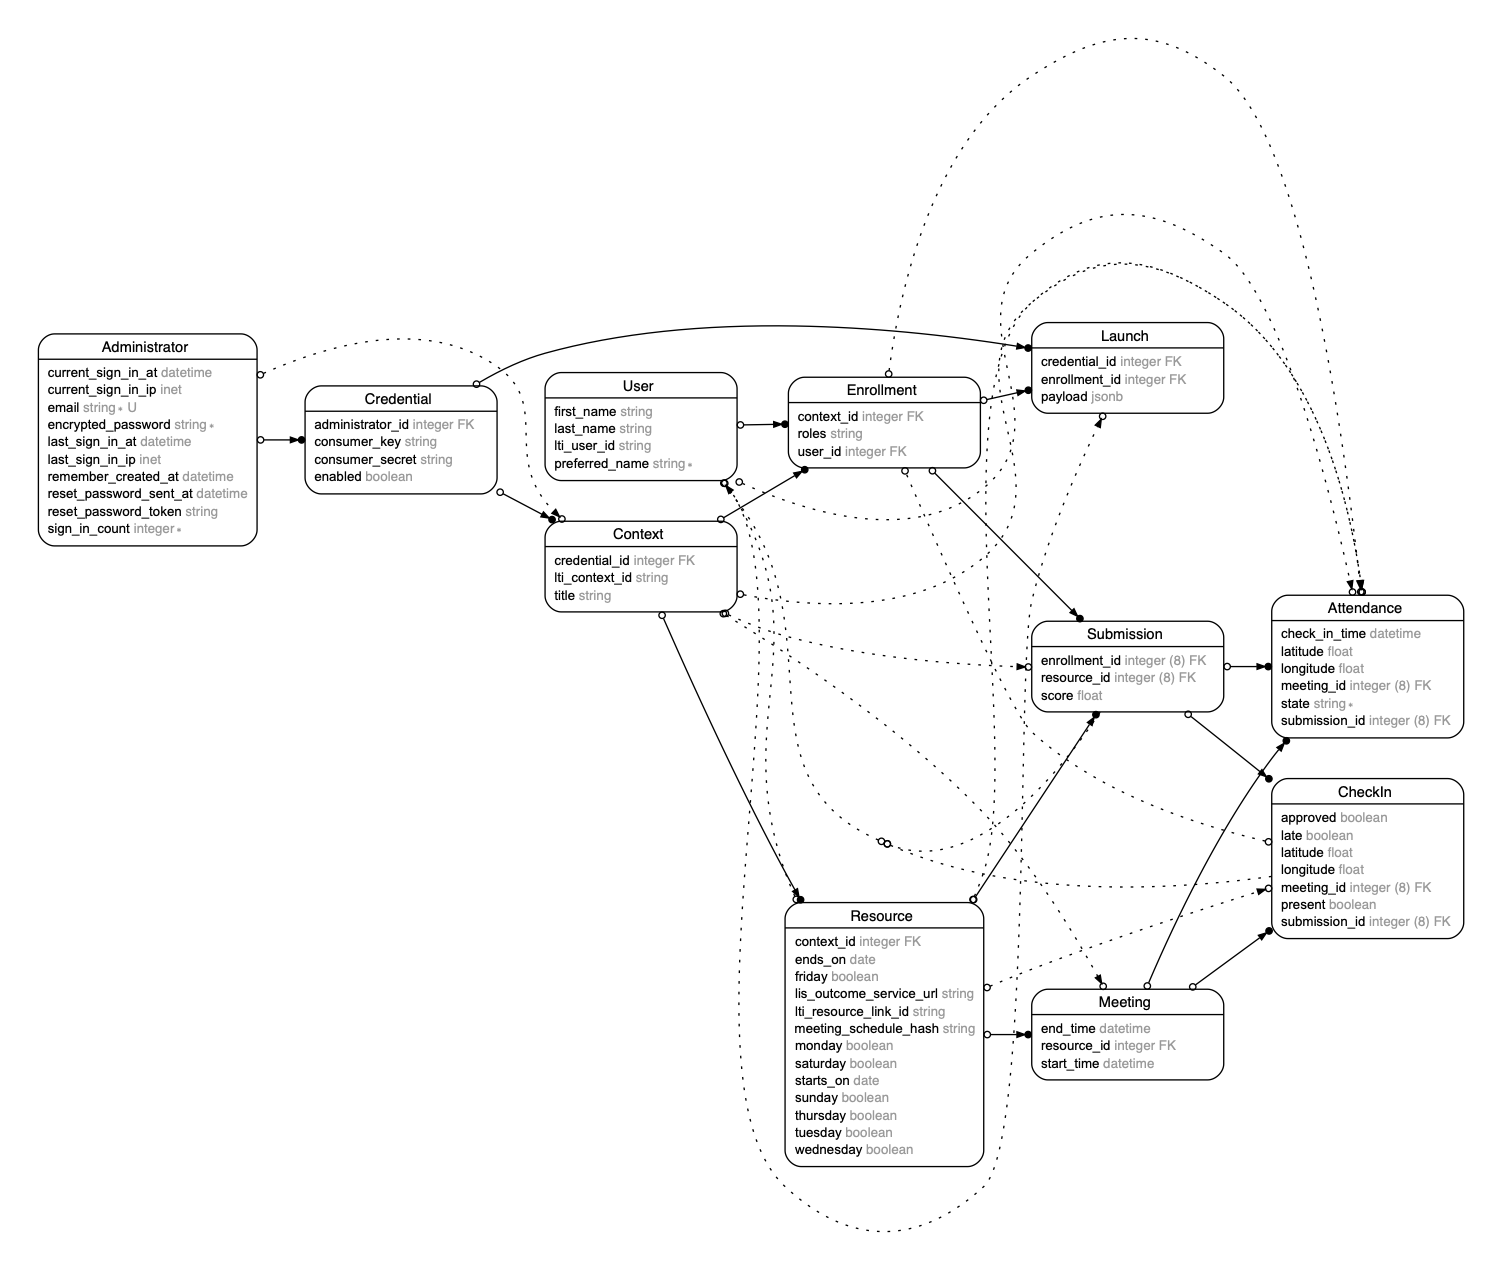
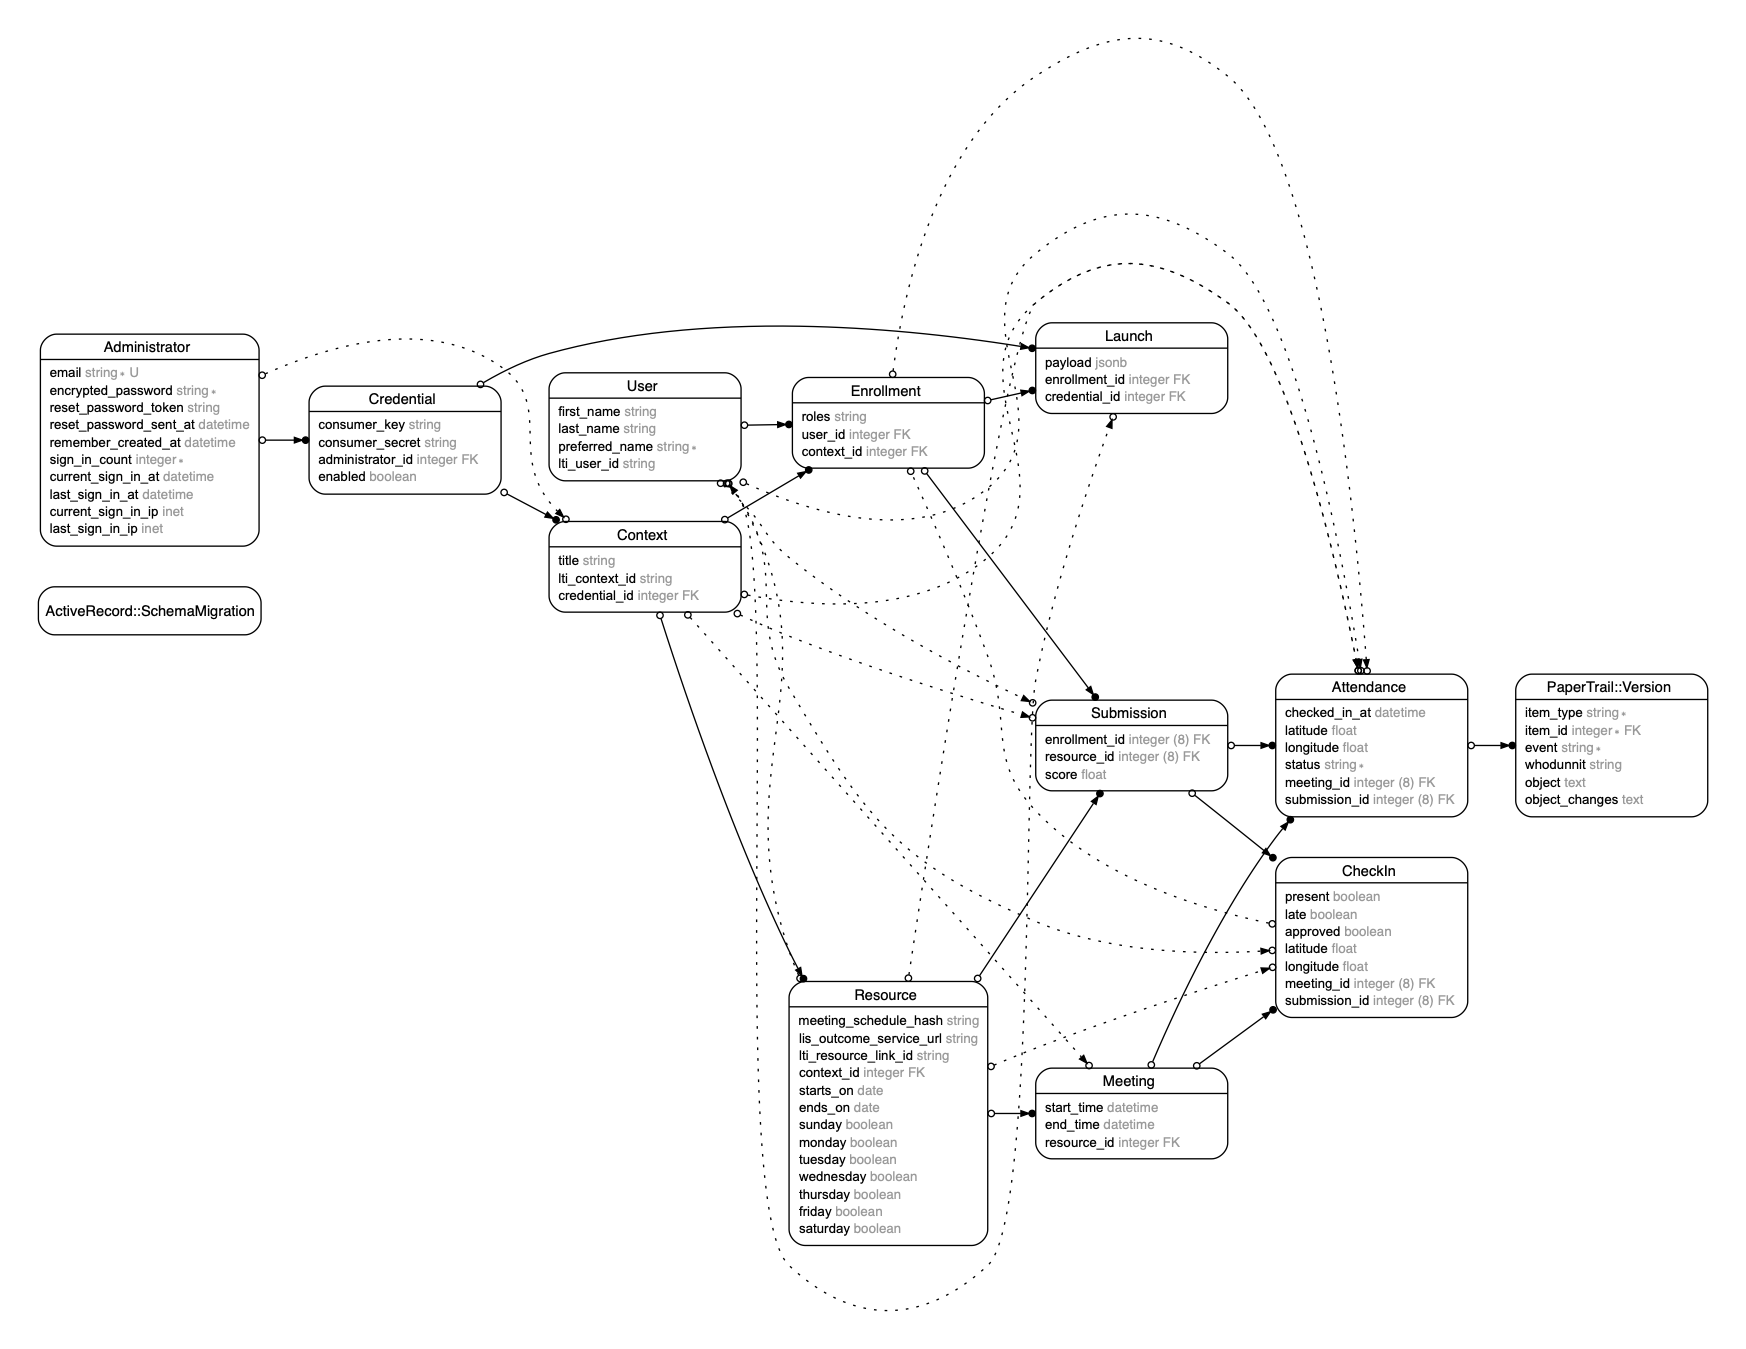
Get checking in via Attendance working
This branch sets up the implementation of switching the entire check in
process to use Attendances instead of CheckIns. It sets up Paper Trail
for Attendances, routes, controller action and a simple, functioning
button on the student page to update an Attendance.

Add callbacks to create Attendances

When a student launches for the first time, upon creating their
Submission for the Resource, an Attendance must be made for each
Meeting.

Also, if a new Meeting is created for a Resource, Attendances must be
made for each submission the Resource already has.

Add Paper Trail gem

Install configure rails-erd

A new erd.png will be generated upon migration

Create versions table for Paper Trail

Apply Paper Trail to Attendance model

Assign check_in_time in event instead of update

By using update, Paper Trail was logging a change upon updating the
`check_in_time` and then upon running the transition. We only want it to
log one version.

Reset check_in_time in reset event

Get main check in button working using AASM event

Update calls of check_in_time to checked_in_at

Use Time.current instead of Time.now

Remove comments

Rubocopping!

Remove unused methods & move callback logic

Using the before_action to find the attendance was overkill and
anticipatory of additional actions when it doesn't appear additional
actions will be needed. For that reason, the logic to find the
Attendance has been moved directly into the transition action.
[…]

diff --git a/db/migrate/20190226195724_create_versions.rb b/db/migrate/20190226195724_create_versions.rb
@@ -1,0 +1,35 @@
+# This migration creates the `versions` table, the only schema PT requires.
+# All other migrations PT provides are optional.
+class CreateVersions < ActiveRecord::Migration[5.2]
+  # The largest text column available in all supported RDBMS is
+  # 1024^3 - 1 bytes, roughly one gibibyte.  We specify a size
+  # so that MySQL will use `longtext` instead of `text`.  Otherwise,
+  # when serializing very large objects, `text` might not be big enough.
+  TEXT_BYTES = 1_073_741_823
+
+  def change
+    create_table :versions do |t|
+      t.string   :item_type, null: false
+      t.integer  :item_id,   null: false
+      t.string   :event,     null: false
+      t.string   :whodunnit
+      t.text     :object, limit: TEXT_BYTES
+
+      # Known issue in MySQL: fractional second precision
+      # -------------------------------------------------
+      #
+      # MySQL timestamp columns do not support fractional seconds unless
+      # defined with "fractional seconds precision". MySQL users should manually
+      # add fractional seconds precision to this migration, specifically, to
+      # the `created_at` column.
+      # (https://dev.mysql.com/doc/refman/5.6/en/fractional-seconds.html)
+      #
+      # MySQL users should also upgrade to at least rails 4.2, which is the first
+      # version of ActiveRecord with support for fractional seconds in MySQL.
+      # (https://github.com/rails/rails/pull/14359)
+      #
+      t.datetime :created_at
+    end
+    add_index :versions, %i(item_type item_id)
+  end
+end

diff --git a/app/models/attendance.rb b/app/models/attendance.rb
@@ -20,6 +20,7 @@
 
 class Attendance < ApplicationRecord
   include AASM
+  has_paper_trail
 
   belongs_to :meeting
   belongs_to :submission
@@ -28,6 +29,8 @@ class Attendance < ApplicationRecord
   has_one :enrollment, through: :submission
   has_one :resource, through: :submission
   has_one :user, through: :enrollment
+
+  scope :for, ->(submission) { find_by(submission: submission) }
 
   validates_uniqueness_of :submission,
                           scope: :meeting,
@@ -39,7 +42,7 @@ class Attendance < ApplicationRecord
 
     event :check_in do
       before do
-        update(check_in_time: Time.now)
+        assign_attributes(checked_in_at: Time.current)
       end
 
       transitions from: :pending, to: :accepted, if: :passes_verifications?
@@ -63,12 +66,15 @@ class Attendance < ApplicationRecord
     end
 
     event :reset do
+      before do
+        assign_attributes(checked_in_at: nil)
+      end
       transitions from: %i[accepted in_appeal not_accepted], to: :pending
     end
   end
 
   def within_allowed_timeframe?
-    check_in_time&.between?(meeting.start_time - 1.hour, meeting.end_time)
+    checked_in_at&.between?(meeting.start_time - 1.hour, meeting.end_time)
   end
 
   def meeting_complete?

diff --git a/app/controllers/resources_controller.rb b/app/controllers/resources_controller.rb
@@ -15,10 +15,12 @@ class ResourcesController < ApplicationController
     @target_meeting = @resource.nearest_meeting
     @meetings = @resource.meetings.order(:start_time)
     @check_in = CheckIn.new(meeting: @target_meeting)
+    @target_attendance = @target_meeting.attendance_for(current_submission)
     if current_enrollment.teacher?
       @most_recent_meeting = @meetings.gradeable.last
       @unapproved_check_ins = @resource.check_ins.unapproved.order(:created_at)
-      @submissions = @resource.submissions.joins(:user).merge(User.order(:last_name))
+      @submissions = @resource.
+        submissions.joins(:user).merge(User.order(:last_name))
       @check_in.approved = true
 
       render "teacher_show"

diff --git a/db/schema.rb b/db/schema.rb
@@ -136,6 +136,17 @@ ActiveRecord::Schema.define(version: 2019_02_27_214602) do
     t.string "lti_user_id"
   end
 
+  create_table "versions", force: :cascade do |t|
+    t.string "item_type", null: false
+    t.integer "item_id", null: false
+    t.string "event", null: false
+    t.string "whodunnit"
+    t.text "object"
+    t.datetime "created_at"
+    t.text "object_changes"
+    t.index ["item_type", "item_id"], name: "index_versions_on_item_type_and_item_id"
+  end
+
   add_foreign_key "attendances", "meetings"
   add_foreign_key "attendances", "submissions"
   add_foreign_key "check_ins", "meetings"

diff --git a/app/models/meeting.rb b/app/models/meeting.rb
@@ -13,6 +13,8 @@
 #
 
 class Meeting < ApplicationRecord
+  after_create :create_attendances
+
   belongs_to :resource
   has_many   :attendances, dependent: :destroy
   has_many   :check_ins
@@ -43,5 +45,15 @@ class Meeting < ApplicationRecord
 
   def complete?
     end_time <= Time.current
+  end
+
+  def create_attendances
+    resource.submissions.each do |submission|
+      submission.attendances.create(meeting: self)
+    end
+  end
+
+  def attendance_for(submission)
+    attendances.find_by(submission: submission)
   end
 end

diff --git a/db/migrate/20190226195725_add_object_changes_to_versions.rb b/db/migrate/20190226195725_add_object_changes_to_versions.rb
@@ -1,0 +1,12 @@
+# This migration adds the optional `object_changes` column, in which PaperTrail
+# will store the `changes` diff for each update event. See the readme for
+# details.
+class AddObjectChangesToVersions < ActiveRecord::Migration[5.2]
+  # The largest text column available in all supported RDBMS.
+  # See `create_versions.rb` for details.
+  TEXT_BYTES = 1_073_741_823
+
+  def change
+    add_column :versions, :object_changes, :text, limit: TEXT_BYTES
+  end
+end

diff --git a/app/models/submission.rb b/app/models/submission.rb
@@ -16,6 +16,7 @@
 #
 
 class Submission < ApplicationRecord
+  after_create :create_attendances
   after_update :pass_back_grade
 
   belongs_to :resource
@@ -56,5 +57,11 @@ class Submission < ApplicationRecord
 
   def full_user_name
     "#{user.preferred_name} #{user.last_name}".strip
+  end
+
+  def create_attendances
+    resource.meetings.each do |meeting|
+      attendances.create(meeting: meeting)
+    end
   end
 end

diff --git a/config/routes.rb b/config/routes.rb
@@ -13,6 +13,9 @@ Rails.application.routes.draw do
   get "/sign_out", to: "users#sign_out", as: "lti_user_sign_out"
   get "/config" => "launches#xml_config"
 
+  resources :attendances, only: %i[] do
+    patch "transition"
+  end
   resources :check_ins, only: %i[create destroy edit show update]
   resources :contexts, only: %i[index edit update show]
   resources :credentials, only: %i[index create destroy]

diff --git a/app/controllers/attendances_controller.rb b/app/controllers/attendances_controller.rb
@@ -1,2 +1,13 @@
 class AttendancesController < ApplicationController
+  def transition
+    attendance = Attendance.find(params[:attendance_id])
+    event = params.fetch(:event).to_sym
+
+    if attendance.aasm.events.map(&:name).include?(event) &&
+        attendance.send(event)
+      attendance.save
+    end
+
+    redirect_to resource_path(attendance.resource)
+  end
 end

diff --git a/app/controllers/application_controller.rb b/app/controllers/application_controller.rb
@@ -10,6 +10,8 @@ class ApplicationController < ActionController::Base
   helper_method :current_submission
   helper_method :current_user
 
+  before_action :set_paper_trail_whodunnit
+
   def landing
     render "/landing.html.erb"
   end
